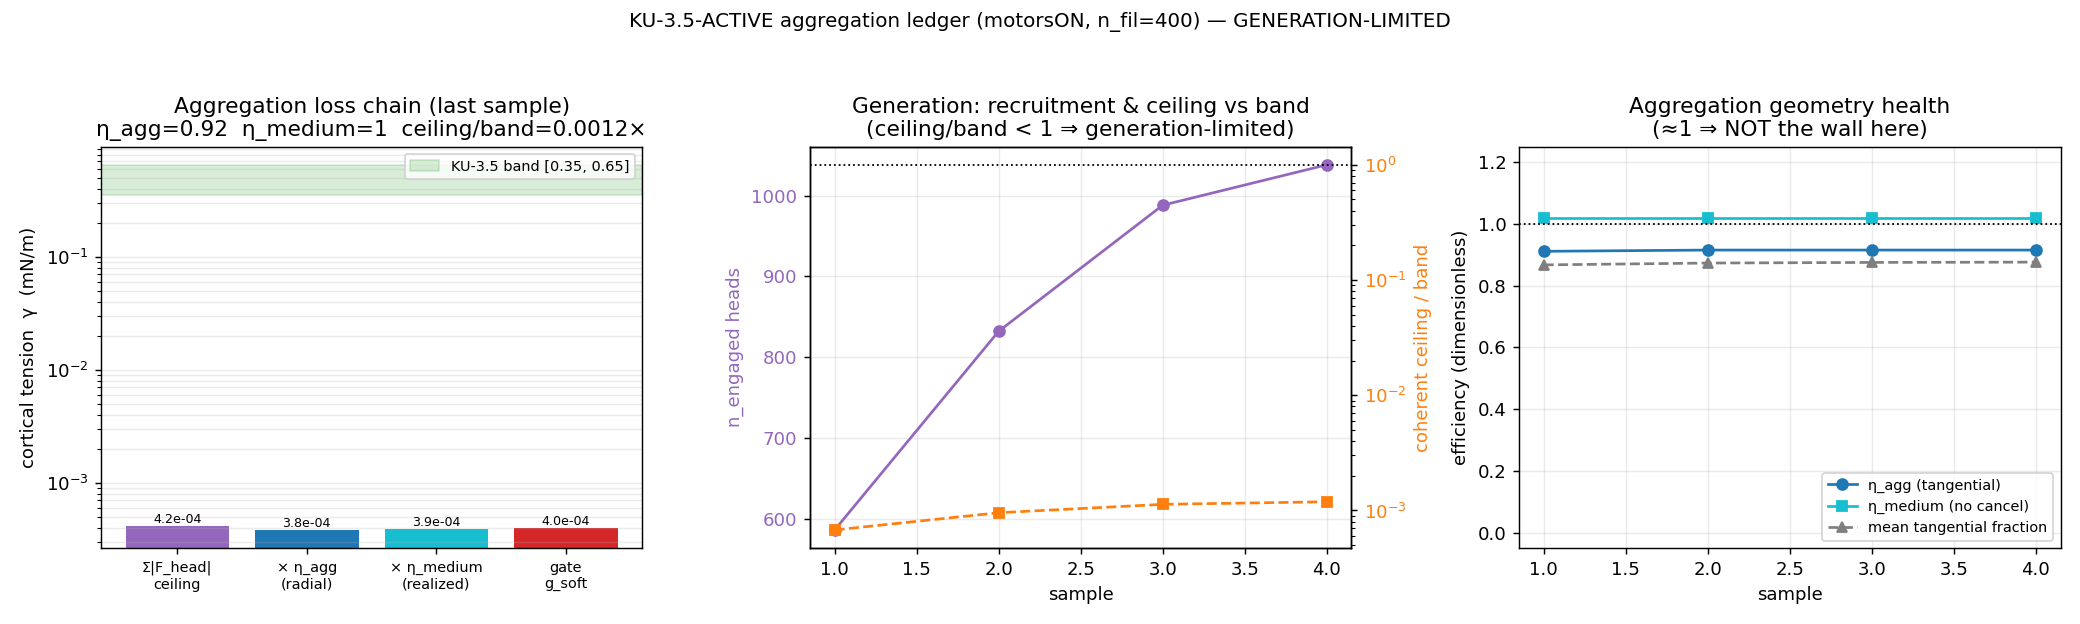
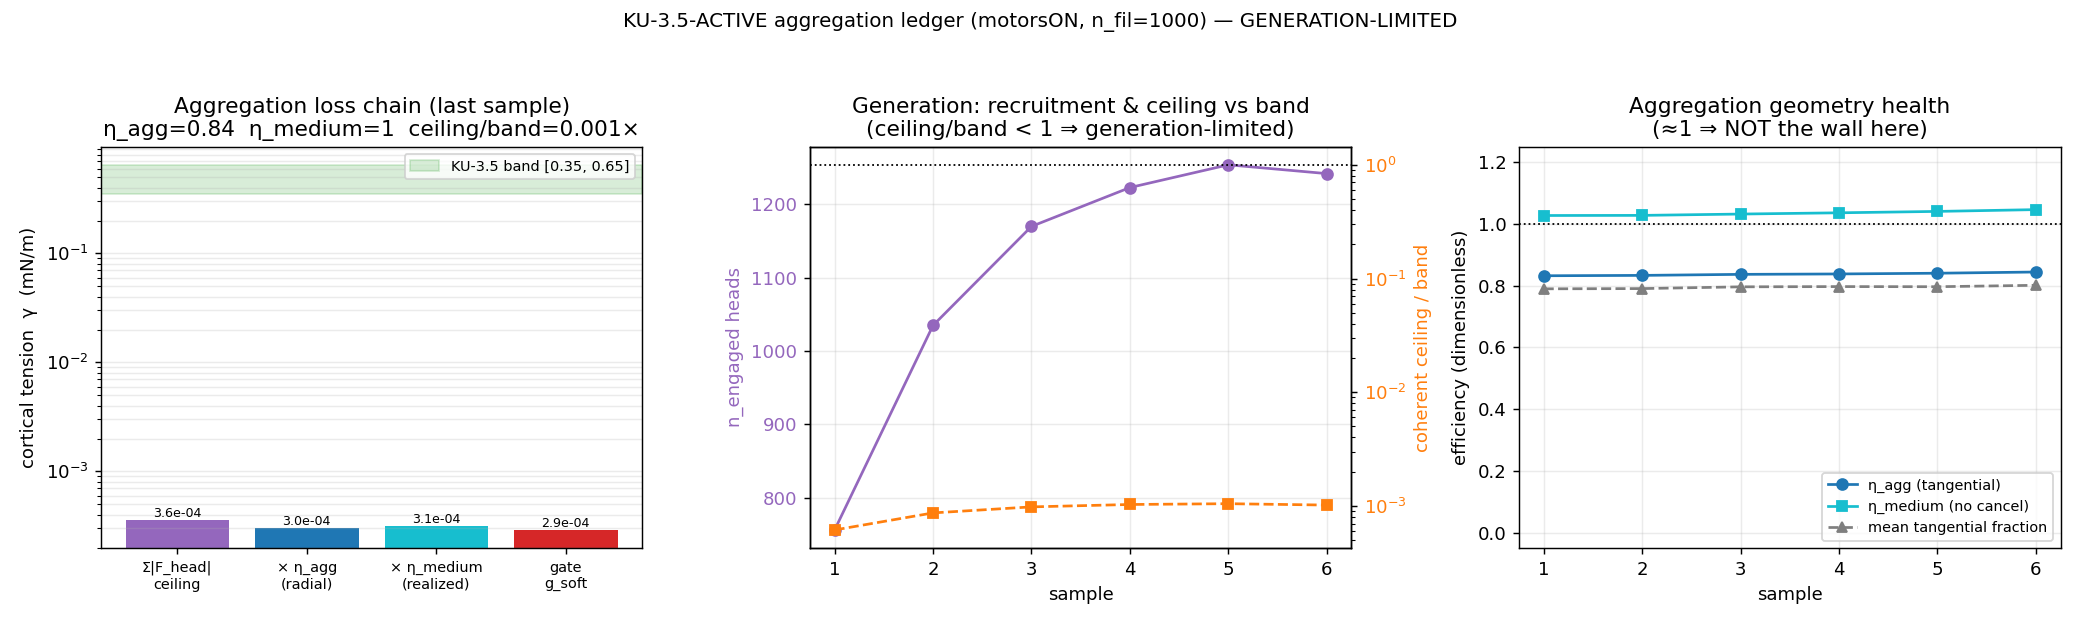
KU-3.5-active aggregation: GENERATION-LIMITED confirmed at production scale (n_fil=1000, gbook GPU)
Production run on gbook RTX A5000 (2632s, 6 samples, v0_accel=1.0 Hill-honest,
connected mesh, all compartments ON at physiological values). Verdict identical
to the n_fil=400 dev run -> scale-invariant.

n_fil=1000 plateau (sample 6): n_engaged 1242, Sigma|F_head| 2.43 nN, eta_agg
0.84, eta_medium 1.05, eta_total 0.88, ceiling/band 0.0010; gate g_soft 2.90e-4
~ mop_attach 2.49e-4 ~ ik_attach 3.01e-4 ~ ceiling 3.56e-4 mN/m (all within
~1.4x = aggregation faithful, no hidden loss). vs n_fil=400 ceiling/band 0.0012.

Pre-launch verification (both historically-important footguns checked):
- MOTOR COUNT: native_n_motors=2120.6 (Salbreux 3/um^2 x 706.9 um^2);
  n_motors=200 x factor 10.60 = native (invariant); k & F_stall both x10.60 ->
  F/F_stall invariant; s_grip_max=F_stall/k=500nm invariant; total stall
  capacity 21.21 nN is n_motors-invariant (~0.45 mN/m over 2piR => full native
  complement at stall IS band-capable; floor = sub-stall + short lever, not
  motor undercount). Estimator reads scaled k/F_stall from the live run ->
  param-map mis-pin impossible.
- CONNECTED MESH: 0 same-filament staples, giant component 1.000, z 3.65 at
  n_fil=1000 (bridge-different-filament seeding confirmed).

Artifacts: AGG_n1000_gpu.log, agg_ledger_grip_walk_motorsON.json,
figs/ku35_aggregation_motorsON.png (now the production n1000 figure).

diff --git a/ffn_sim/docs/KU_3_5_GATE_STRUCTURE_2026-06-04.md b/ffn_sim/docs/KU_3_5_GATE_STRUCTURE_2026-06-04.md
@@ -95,9 +95,21 @@ cancellation), built on the project's IK-virial 8πR² calibration (corrected MO
 ≈ IK; the estimator audit's convention). It emits one of three verdicts:
 GENERATION-LIMITED / AGGREGATION-LIMITED(RADIAL) / AGGREGATION-LIMITED(MEDIUM).
 
-**Verdict at n_fil=400, n_motors=200, connected mesh, all compartments ON
-(`outputs/h3/production/ku35_active/AGG_n400_cpu.log`,
-`figs/ku35_aggregation_motorsON.png`): GENERATION-LIMITED.**
+**Verdict: GENERATION-LIMITED — robust at dev (n_fil=400, CPU) AND production
+scale (n_fil=1000, n_motors=200, gbook GPU, all compartments ON;
+`outputs/h3/production/ku35_active/AGG_n{400_cpu,1000_gpu}.log`,
+`figs/ku35_aggregation_motorsON.png`).** n_fil=1000 plateau (sample 6):
+n_engaged 1242, Σ|F_head| 2.43 nN, η_agg 0.84, η_medium 1.05, η_total 0.88,
+ceiling/band 0.0010, gate g_soft 2.90e-4 ≈ mop_attach 2.49e-4 ≈ ik_attach
+3.01e-4 ≈ ceiling 3.56e-4 mN/m (all within ~1.4×). Identical verdict to
+n_fil=400 (ceiling/band 0.0012) → scale-invariant. **Motor count verified
+physiological + self-consistent**: native_n_motors = 2120.6 (Salbreux 3/µm² ×
+706.9 µm²); n_motors=200 × factor 10.60 = native (invariant); total stall
+capacity 21.21 nN is n_motors-invariant (≈0.45 mN/m over 2πR ⇒ the full native
+complement at stall IS band-capable — the floor is the sub-stall operating point
++ short lever, NOT motor undercount); the estimator reads scaled k/F_stall from
+the live run so the historical param-map mis-pin is impossible. **Connected mesh
+verified**: 0 same-filament staples, giant component 1.000, z 3.65 at n_fil=1000.
 
 - **Aggregation is NOT the wall.** η_agg ≈ 0.91, η_medium ≈ 1.02, η_total ≈ 0.94
   — the per-head forces aggregate ~94% efficiently. Cross-check: gate g_soft
@@ -126,9 +138,11 @@ GENERATION-LIMITED / AGGREGATION-LIMITED(RADIAL) / AGGREGATION-LIMITED(MEDIUM).
 - [x] KU-3.5-active diagnosis: force generation/aggregation (per-head → shell
       tension) — **aggregation estimator built + validated; verdict =
       GENERATION-LIMITED (aggregation ~94% efficient, generation ~840× under)**.
-- [ ] KU-3.5-active follow-up: production-scale (n_fil=1000) `--aggregation` on
-      gbook GPU to confirm the verdict at scale; then quantify per-head-force /
-      recruitment / soft-transmission levers.
+- [x] KU-3.5-active follow-up: production-scale (n_fil=1000) `--aggregation` on
+      gbook GPU — **DONE, verdict GENERATION-LIMITED confirmed scale-invariant**
+      (ceiling/band 0.0010 @ n1000 vs 0.0012 @ n400). NEXT: quantify the
+      per-head-force / recruitment / soft-transmission levers (PI-gated core
+      myosin per the 6/4 CORTICAL_TENSION_RECORD).
 - [ ] KU-3.5-passive: wire `turgor_dP0` = resting Π₀ as the production baseline.
 - [ ] KU-3.5-bridge: expose g_rigid/γ as the Layer-2 spheroid surface-tension
       anchor.
